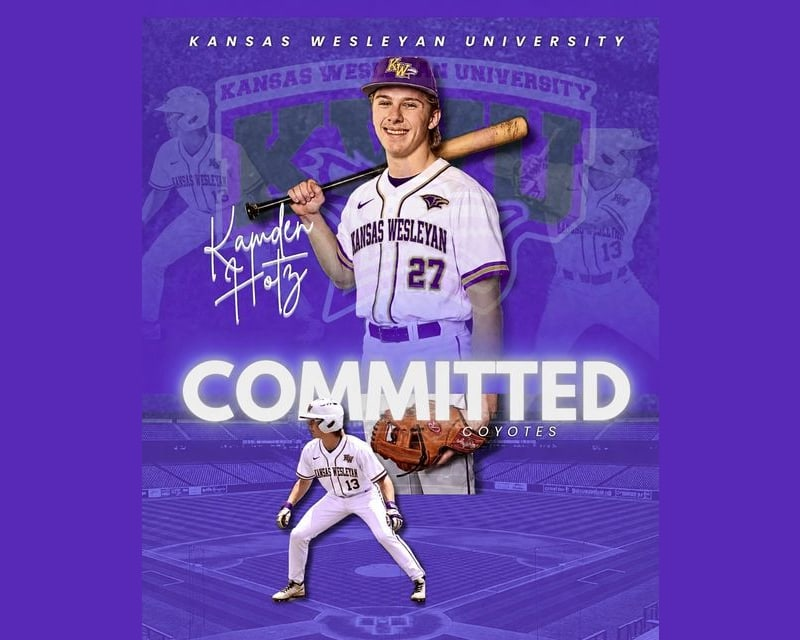
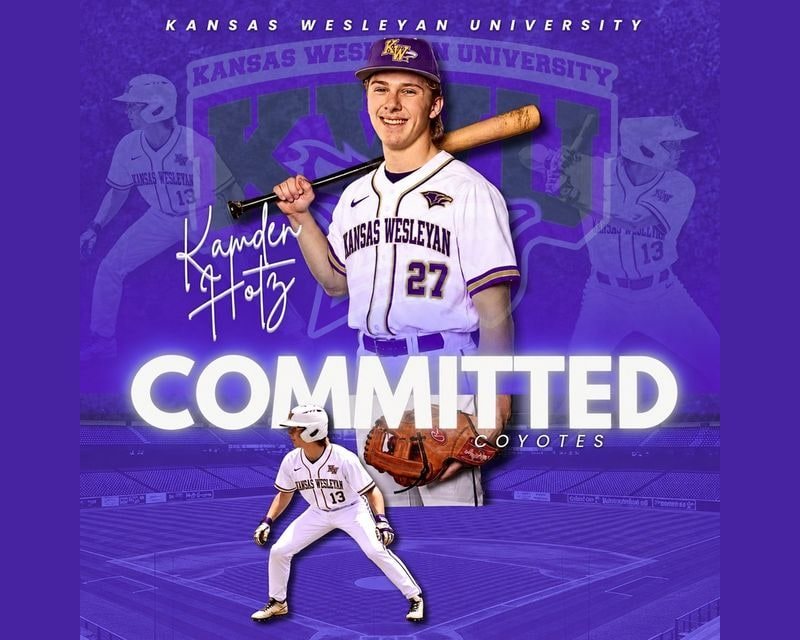
Use the square Kamden Hotz commitment graphic.
Replace the news article, homepage banner, news card, and social image with the new 886 by 886 poster.

diff --git a/src/lib/news-kamden-hotz.ts b/src/lib/news-kamden-hotz.ts
@@ -10,8 +10,8 @@ export const kamdenHotzStory = {
   image: {
     src: "/images/news/kamden-hotz-kansas-wesleyan.jpg",
     alt: "Kamden Hotz commitment graphic for Kansas Wesleyan University baseball",
-    width: 1127,
-    height: 1396,
+    width: 886,
+    height: 886,
     focus: "center 42%",
     size: "half" as const,
     expand: true,
